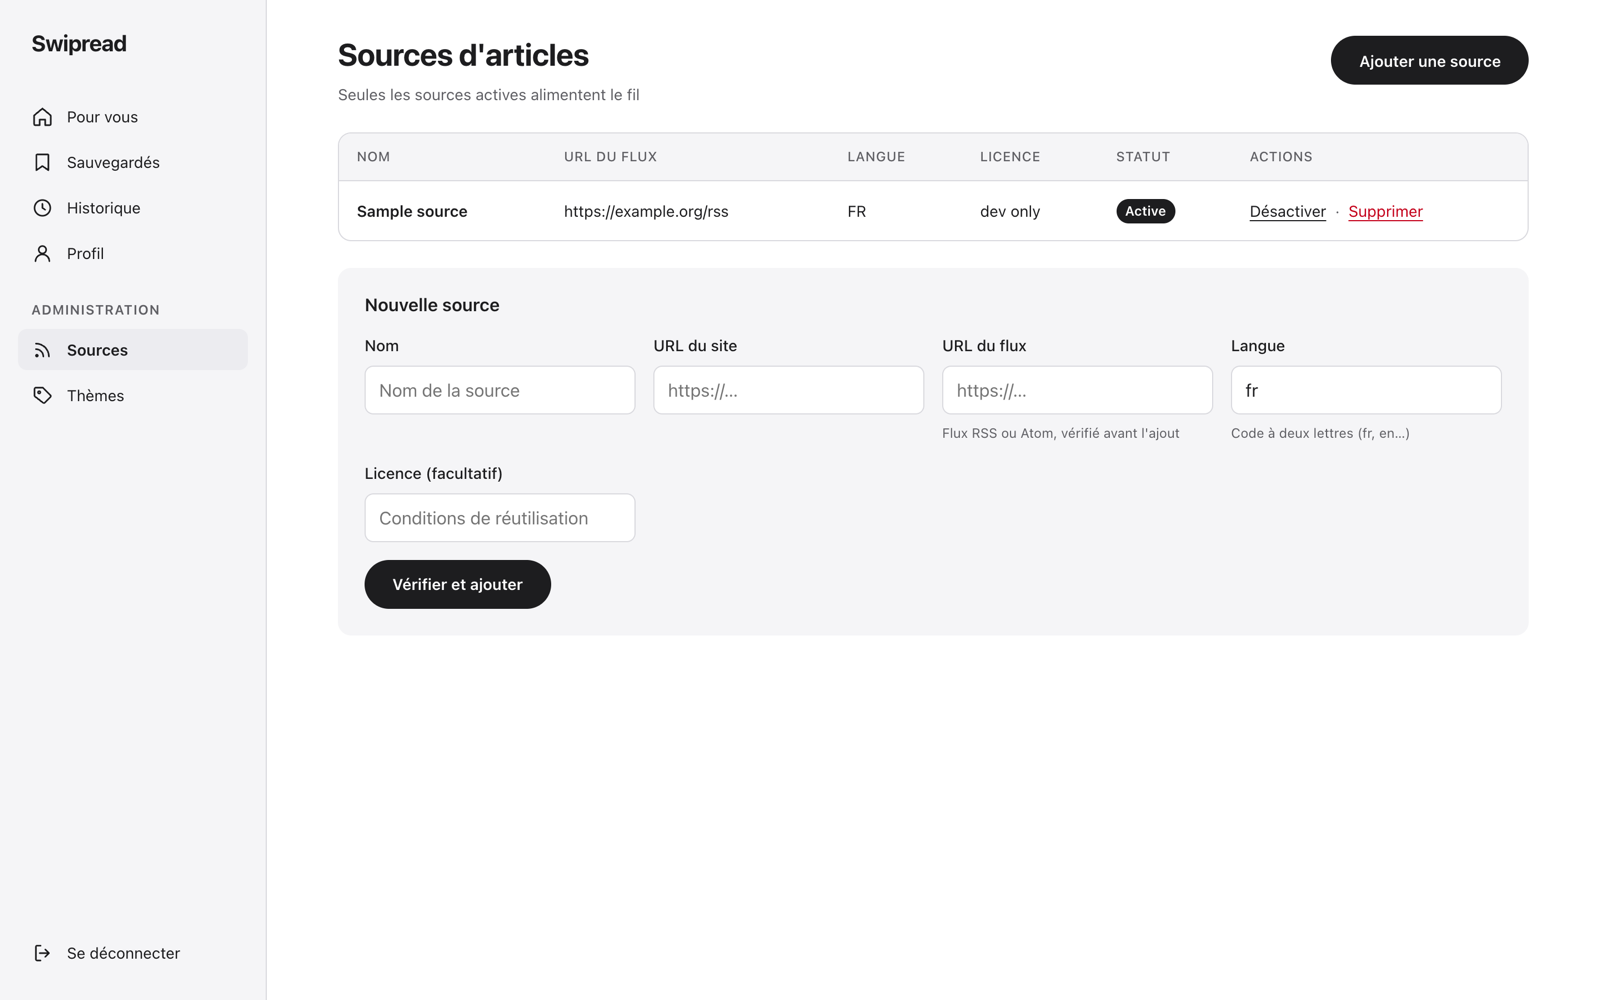
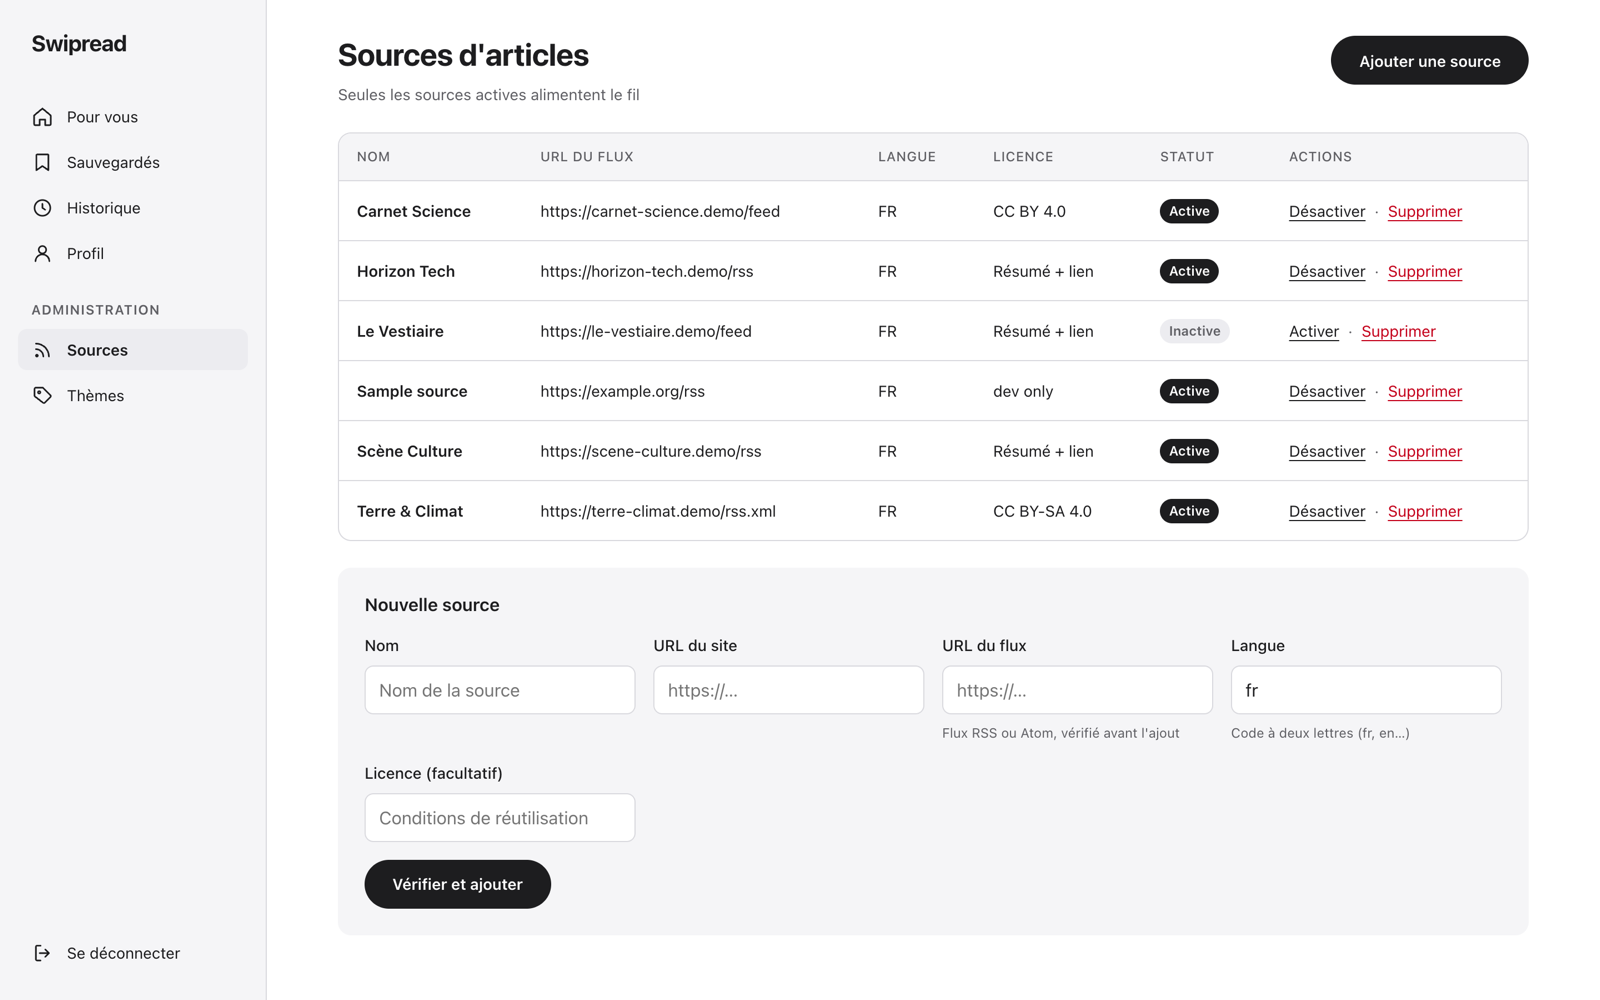
docs: rework the README with a demo GIF, system overview, how it works and full-stack setup

diff --git a/README.md b/README.md
@@ -1,81 +1,181 @@
-# Swipread web
+# Swipread · web
 
-Swipread is a reading app that works like a short-video feed, but for articles: recommended articles are shown one card per screen, and the reader scrolls to the next one. Every interaction (time spent on a card, opening, reading, liking, saving, sharing, hiding) is sent to the backend, which feeds a recommendation service so the feed adapts to the reader.
+**Read the news one card at a time.** Swipread is a feed of recommended articles you scroll like short videos: one article per screen, and every scroll, read and like teaches the recommender what you want next.
 
-This repository is the **web frontend**: desktop first, responsive down to mobile, with light and dark themes. The UI is in French. It talks to the Swipread API (Spring Boot, separate repository) over REST.
+This repository is the web app: React 19 + TypeScript, desktop first and fully responsive, light and dark themes, French UI.
 
-![The "Pour vous" feed](docs/images/feed.png)
+![React 19](https://img.shields.io/badge/React-19-149eca)
+![TypeScript](https://img.shields.io/badge/TypeScript-6-3178c6)
+![Vite](https://img.shields.io/badge/Vite-8-646cff)
+![Tests](https://img.shields.io/badge/tests-Vitest%20%2B%20msw-6e9f18)
+![License](https://img.shields.io/badge/license-all%20rights%20reserved-lightgrey)
 
-| Dark theme | Mobile | Saved articles |
+![Scrolling through the feed with the keyboard](docs/images/feed-scroll.gif)
+
+## Contents
+
+- [How Swipread fits together](#how-swipread-fits-together)
+- [Screenshots](#screenshots)
+- [Features](#features)
+- [How it works](#how-it-works)
+- [Getting started](#getting-started)
+- [Scripts](#scripts)
+- [Project structure](#project-structure)
+- [Testing](#testing)
+- [Browser support](#browser-support)
+- [Project status](#project-status)
+- [Documentation](#documentation)
+- [License](#license)
+
+## How Swipread fits together
+
+```mermaid
+flowchart LR
+    Web["<b>Web app</b><br/>this repository"] -- "REST + JWT<br/>feed pages, events" --> API["<b>Swipread API</b><br/>Spring Boot"]
+    API --> PG[(PostgreSQL<br/>users, articles, events)]
+    API --> Redis[(Redis<br/>feed stock, events stream)]
+    Redis -- "events stream" --> Reco["<b>Recommender</b><br/>separate service"]
+    Reco -- "ranked articles" --> API
+```
+
+The web app never ranks articles itself. It shows the pages the API serves from a per-reader stock of recommended articles, and reports what the reader does with each card. The API stores these events and streams them to the recommendation service, which refills the stock. The backend lives in the companion **Swipread API** repository.
+
+## Screenshots
+
+| Feed | Dark theme | Mobile |
 | --- | --- | --- |
-| ![Feed in dark mode](docs/images/feed-dark.png) | ![Feed on mobile](docs/images/feed-mobile.png) | ![Saved articles](docs/images/saved.png) |
+| ![The « Pour vous » feed](docs/images/feed.png) | ![The feed in dark mode](docs/images/feed-dark.png) | ![The feed on a phone](docs/images/feed-mobile.png) |
+
+| Saved articles | Administration |
+| --- | --- |
+| ![Saved articles](docs/images/saved.png) | ![Managing article sources](docs/images/admin-sources.png) |
+
+*Articles, sources and photos in these screenshots are fictional demo data (photos from [Lorem Picsum](https://picsum.photos)).*
 
 ## Features
 
-- **Account**: sign up, log in, short-lived access token renewed in the background from an HttpOnly refresh cookie, log out, edit the display name, delete the account.
-- **Onboarding**: pick at least three topics before the first feed.
-- **Feed**: full-screen cards with scroll snapping, ↑/↓ keyboard navigation, prefetching of the next page, position restored when coming back.
-- **Reactions**: like, save, share (Web Share API with clipboard fallback), "not interested".
-- **Saved** and **history** pages; the history is grouped by recency (today, this week, older).
-- **Event tracking**: impressions, dwell time, opens and reading time, sent in batches and flushed with `keepalive` when the tab closes.
-- **Administration** (admin role): manage article sources (the feed URL is checked by the API) and topics.
-- **Accessibility**: keyboard navigation, visible focus, ARIA labels on icon buttons, `prefers-reduced-motion` and `prefers-color-scheme` support.
+| For readers | For administrators | Under the hood |
+| --- | --- | --- |
+| Sign up, pick at least three topics | Add RSS/Atom sources (the API checks the feed first) | Typed API client generated from OpenAPI |
+| Full-screen feed: scroll, swipe or ↑/↓ | Activate, deactivate or delete sources | Batched event tracking with a `keepalive` final flush |
+| Like, save, share, « not interested » | Create and rename topics, with article and reader counts | 15-minute access token renewed silently, across tabs |
+| Saved list and reading history | Admin-only routes and navigation | Light and dark themes, reduced motion, keyboard and screen reader support |
+| Edit name and topics, delete the account | | Every screen handles loading, errors with retry, and empty states |
 
-## Tech stack
+## How it works
 
-| Area | Choice |
-| --- | --- |
-| UI | React 19, TypeScript, CSS Modules with design tokens |
-| Build | Vite |
-| Routing | React Router (data mode) |
-| Server state | TanStack Query |
-| API client | `openapi-fetch` with types generated from the API's OpenAPI spec (`openapi-typescript`) |
-| Forms | React Hook Form + Zod |
-| Tests | Vitest, Testing Library, Mock Service Worker (msw) |
+**One card per screen.** The feed is a CSS `scroll-snap` container. An `IntersectionObserver` tracks the card on screen, the next page is fetched when three cards remain, and the position is restored when you come back. The arrow keys move between cards, with smooth scrolling turned off for readers who prefer reduced motion. → [Feed](docs/features/feed.md)
 
-## Quick start
+**Every interaction is a signal.** Impressions, time spent on each card (excluding hidden-tab time), opens, reading time on the source's site, likes, saves, shares and hides are queued, sent in batches of up to 100 every 5 seconds, retried on failure, and flushed with `fetch(…, { keepalive: true })` when the tab closes. → [Tracking](docs/features/tracking.md)
 
-Requirements: Node.js 20.19+ or 22.12+, and the Swipread API running locally (by default on `http://localhost:8080`, see its README).
+**Sessions that survive.** The access token lasts 15 minutes; the refresh token lives in an HttpOnly cookie that JavaScript never sees. The client renews before expiry and after a 401, replays the failed request, and shares one renewal between concurrent requests and, through the Web Locks API, between tabs. → [Backend integration](docs/backend-integration.md#authentication)
+
+**A typed contract with the backend.** Types are generated from the API's OpenAPI spec; an API change shows up as a compile error. Server errors are mapped to French messages, field by field. → [Decision records](docs/decisions.md)
+
+**Accessible by default.** Visible focus, labelled icon buttons, `aria-pressed` toggles, live regions for counters and toasts, native `<dialog>` confirmations, colours chosen for AA contrast in both themes. Tests query the UI by role and label, so a missing label fails a test. → [Contributing](docs/contributing.md#accessibility-checklist)
+
+## Getting started
+
+### Prerequisites
+
+| Tool | Version | For |
+| --- | --- | --- |
+| Node.js + npm | 20.19+ or 22.12+ | This app |
+| Java | 25 | The Swipread API |
+| Docker | recent | PostgreSQL and Redis, started by the API |
+
+### 1. Start the API
+
+In the Swipread API repository, with Docker running:
+
+```bash
+./mvnw spring-boot:run -Dspring-boot.run.profiles=dev
+```
+
+The `dev` profile starts PostgreSQL and Redis, creates the schema, seeds topics, sample articles and an admin account, and allows the web app's origin. The API listens on <http://localhost:8080>.
+
+### 2. Start the web app
 
 ```bash
 npm install
-cp .env.example .env.local   # VITE_API_BASE_URL=http://localhost:8080
-npm run dev                  # http://localhost:5173
+cp .env.example .env.local
+npm run dev
 ```
 
-The API only accepts browser calls from `http://localhost:5173` in development, so keep that port. In the API's dev profile you can log in with `admin@swipread.dev` / `password123`, or create an account.
+Open <http://localhost:5173>. Keep this port: it is the origin the API accepts in development.
+
+### 3. Log in
+
+Create an account, or use the seeded admin: `admin@swipread.dev` / `password123`.
+
+### Configuration
+
+| Variable | Default | Purpose |
+| --- | --- | --- |
+| `VITE_API_BASE_URL` | `http://localhost:8080` | API base URL, inlined at build time |
+
+More in [Getting started](docs/getting-started.md), including troubleshooting.
 
 ## Scripts
 
 | Command | What it does |
 | --- | --- |
-| `npm run dev` | Start the dev server on port 5173 |
-| `npm test` | Run the test suite once (`npm run test:watch` to watch) |
-| `npm run lint` | Lint with ESLint |
-| `npm run build` | Type-check and build for production into `dist/` |
-| `npm run preview` | Serve the production build locally |
-| `npm run gen:api` | Regenerate `src/api/schema.d.ts` from the API's OpenAPI spec (`OPENAPI_URL` to change the URL) |
+| `npm run dev` | Dev server on port 5173 |
+| `npm test` | Run the test suite (`npm run test:watch` to watch) |
+| `npm run lint` | ESLint |
+| `npm run build` | Type-check and build into `dist/` |
+| `npm run preview` | Serve the production build |
+| `npm run gen:api` | Regenerate API types from the OpenAPI spec (`OPENAPI_URL` to change the URL) |
 
-## Project layout
+## Project structure
 
 ```text
 src/
-  api/        API client, generated types, error mapping, token refresh
-  app/        routes, guards, layout, sidebar
-  features/   one folder per feature: auth, onboarding, feed, tracking, share, saved, history, profile, admin
-  lib/        small helpers (session storage, ids, formatting, media queries)
-  ui/         shared components and design tokens
-  test/       msw server, handlers, fixtures, render helpers
+├── api/        typed client, generated types, error mapping, token renewal
+├── app/        routes, guards, layout and navigation
+├── features/   one folder per feature: auth, onboarding, feed, tracking,
+│               share, saved, history, profile, admin
+├── lib/        session storage, ids, French formatting, media queries
+├── ui/         shared components, icons and design tokens
+└── test/       msw server and handlers, fixtures, render helpers
 ```
+
+Code is organised by feature: each folder holds its pages, components, hooks, validation schemas and tests. → [Architecture](docs/architecture.md)
+
+## Testing
+
+```bash
+npm test
+```
+
+160+ tests with Vitest, Testing Library and Mock Service Worker run in a few seconds, with no API needed: every request is answered by typed handlers. Tests drive the UI like a user, through roles and accessible names. → [Testing](docs/testing.md)
+
+## Browser support
+
+Current versions of Chrome, Edge, Firefox and Safari, on desktop and mobile. The app relies on CSS scroll snapping, `IntersectionObserver` and the native `<dialog>` element; the Web Share API and Web Locks are used when available, with fallbacks (clipboard, in-tab renewal).
+
+## Project status
+
+The reader and admin user stories are implemented and verified against the API: onboarding, feed, reactions, sharing, saved list, history, profile and account deletion, source and topic administration, token renewal.
+
+Known limitations:
+
+- French UI only, without an i18n framework.
+- No offline mode or installable PWA.
+- The recommendation reason (`similar`, `explore`…) is tracked but not displayed.
 
 ## Documentation
 
-The full developer documentation is in [`docs/`](docs/README.md):
+| | |
+| --- | --- |
+| **Guides** | [Getting started](docs/getting-started.md) · [Architecture](docs/architecture.md) · [Backend integration](docs/backend-integration.md) · [Flows](docs/flows.md) · [Testing](docs/testing.md) · [Contributing](docs/contributing.md) · [Deployment](docs/deployment.md) · [Decision records](docs/decisions.md) · [FAQ](docs/faq.md) · [Glossary](docs/glossary.md) |
+| **Features** | [Authentication](docs/features/auth.md) · [Onboarding](docs/features/onboarding.md) · [Feed](docs/features/feed.md) · [Tracking](docs/features/tracking.md) · [Sharing](docs/features/sharing.md) · [Saved](docs/features/saved.md) · [History](docs/features/history.md) · [Profile](docs/features/profile.md) · [Administration](docs/features/admin.md) |
+| **Reference** | [UI components](docs/reference/ui-components.md) · [Hooks and cache](docs/reference/hooks-and-cache.md) · [Design tokens](docs/reference/design-tokens.md) · [Messages](docs/reference/messages.md) · [Endpoints](docs/reference/endpoints.md) |
 
-- **Guides**: [getting started](docs/getting-started.md), [architecture](docs/architecture.md), [backend integration](docs/backend-integration.md), [flows](docs/flows.md), [testing](docs/testing.md), [contributing](docs/contributing.md), [deployment](docs/deployment.md), [decision records](docs/decisions.md), [FAQ](docs/faq.md), [glossary](docs/glossary.md)
-- **Features**: [authentication](docs/features/auth.md), [onboarding](docs/features/onboarding.md), [feed](docs/features/feed.md), [tracking](docs/features/tracking.md), [sharing](docs/features/sharing.md), [saved](docs/features/saved.md), [history](docs/features/history.md), [profile](docs/features/profile.md), [administration](docs/features/admin.md)
-- **Reference**: [UI components](docs/reference/ui-components.md), [hooks and cache](docs/reference/hooks-and-cache.md), [design tokens](docs/reference/design-tokens.md), [messages](docs/reference/messages.md), [endpoints](docs/reference/endpoints.md)
+Start from the [documentation index](docs/README.md).
 
 ## License
 
 All rights reserved. The source is published for reference only; no license is granted to use, copy, modify or distribute it without the author's written permission.
+
+© William Machecourt
